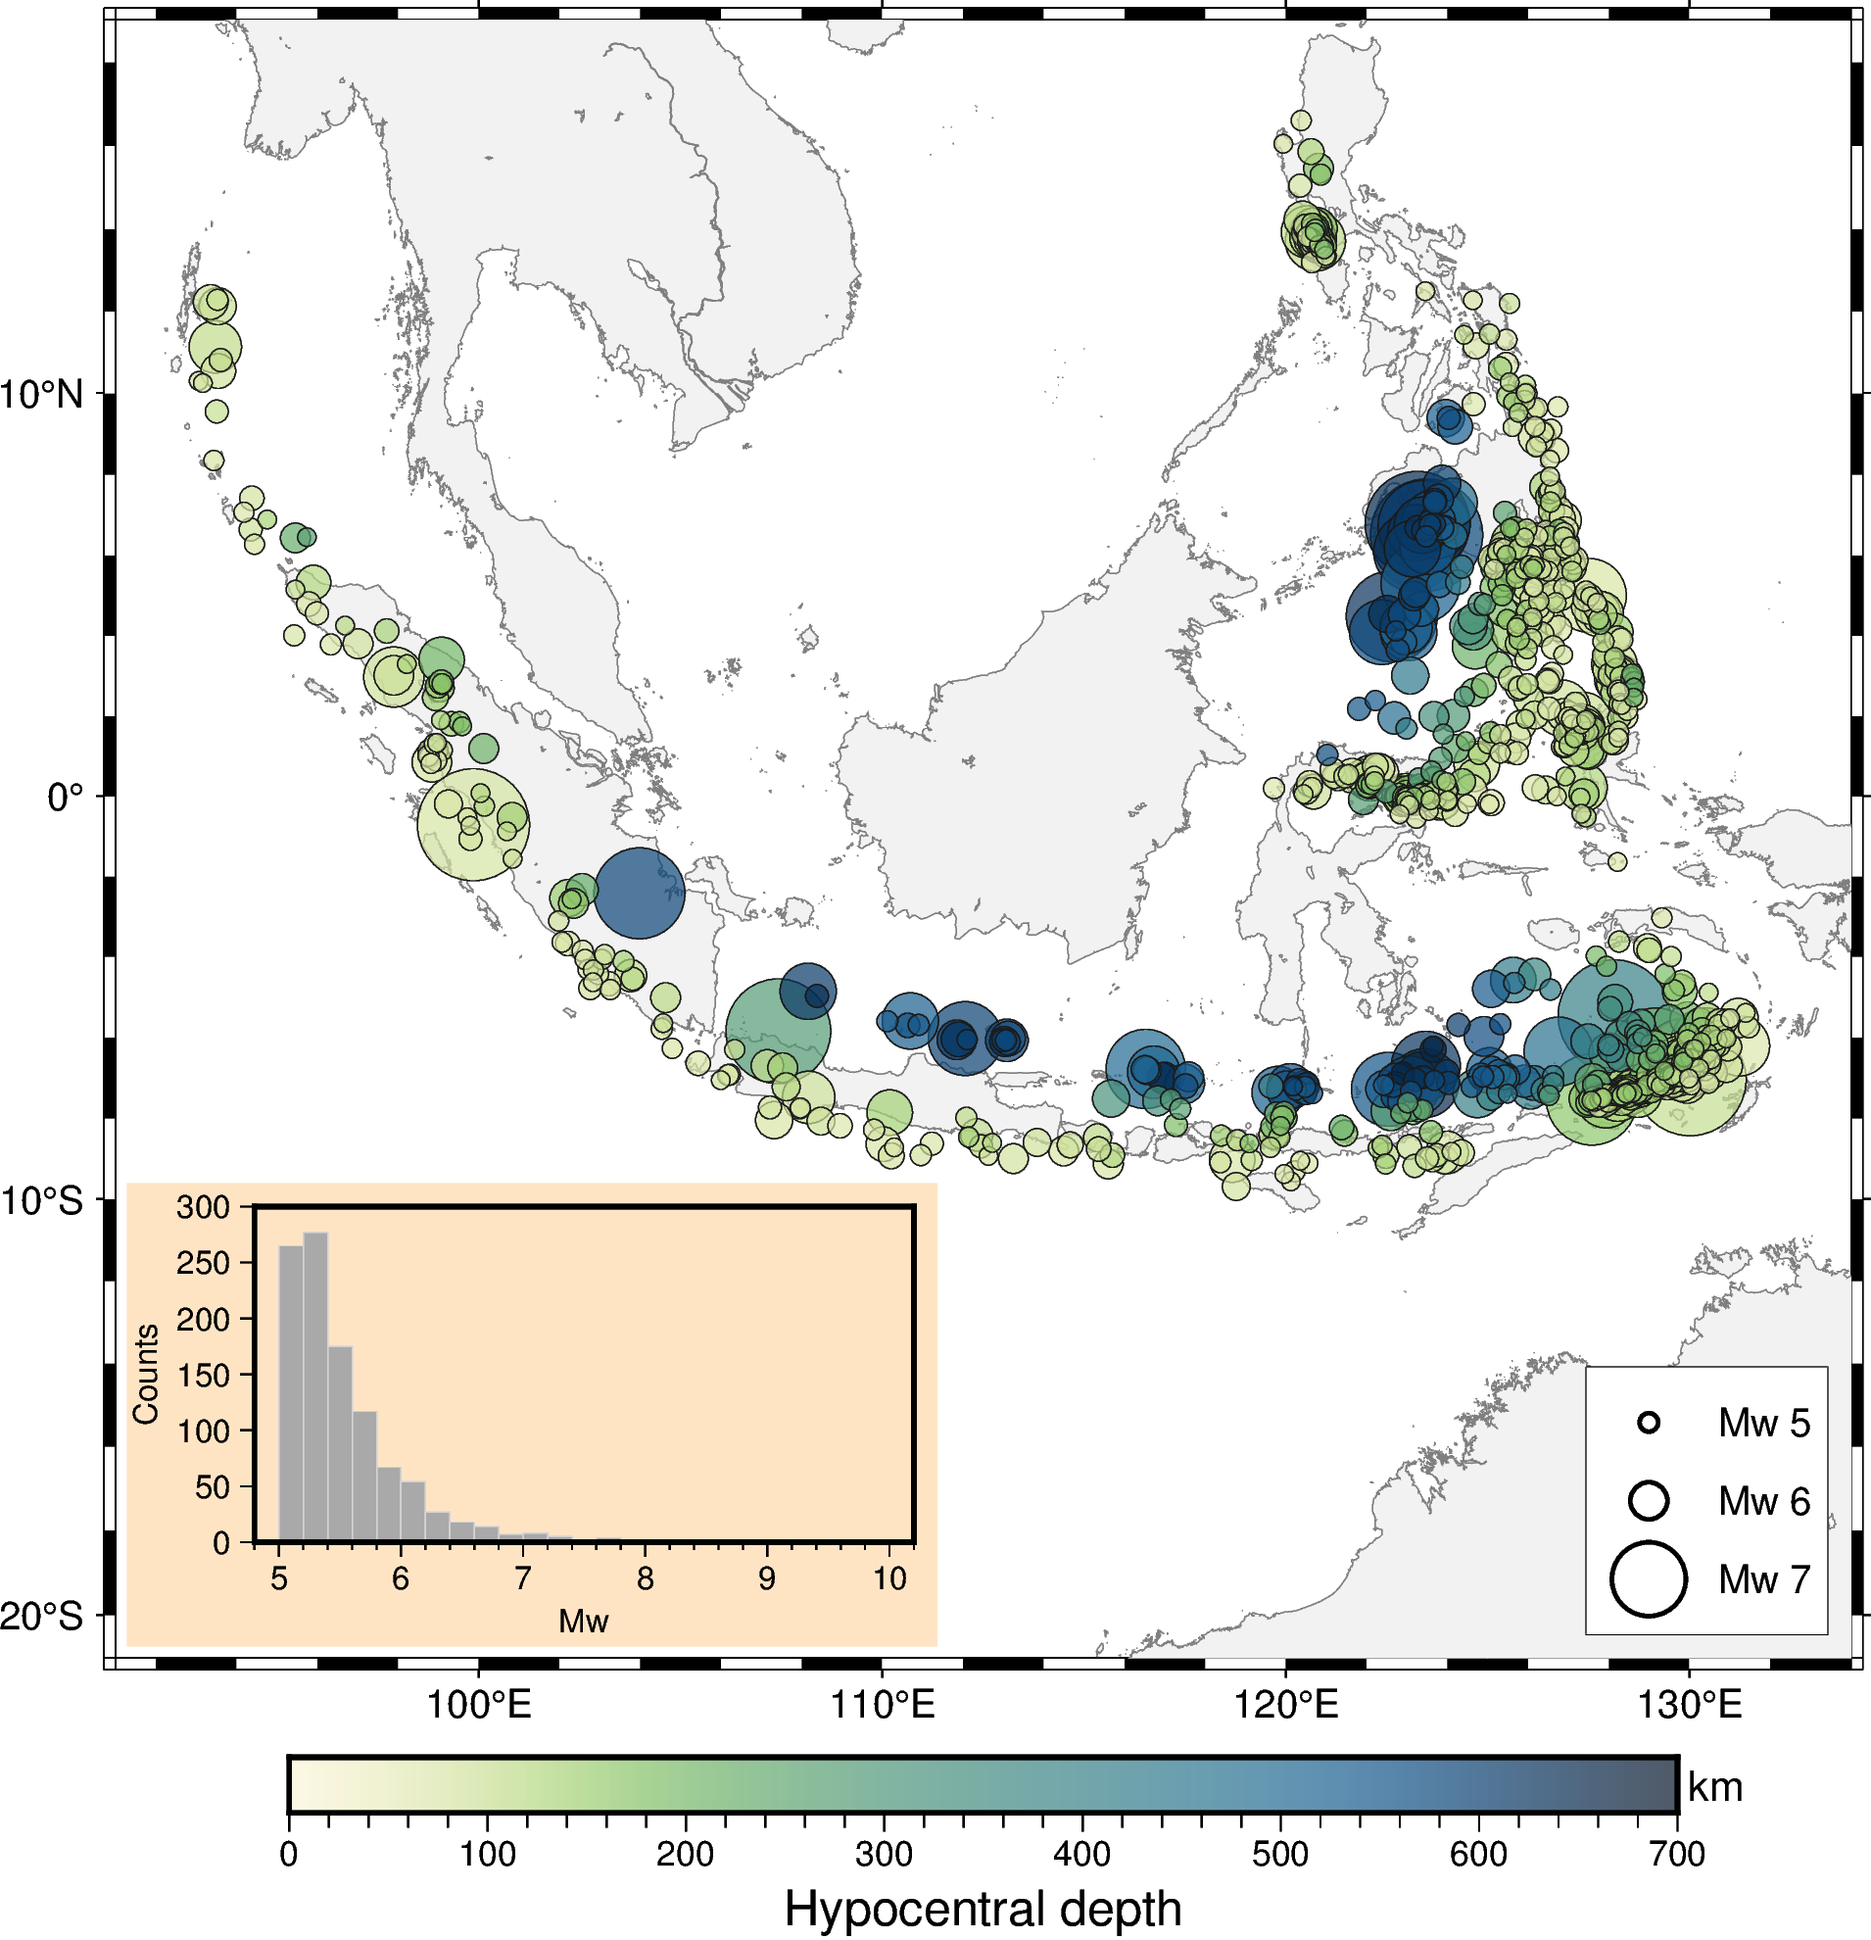
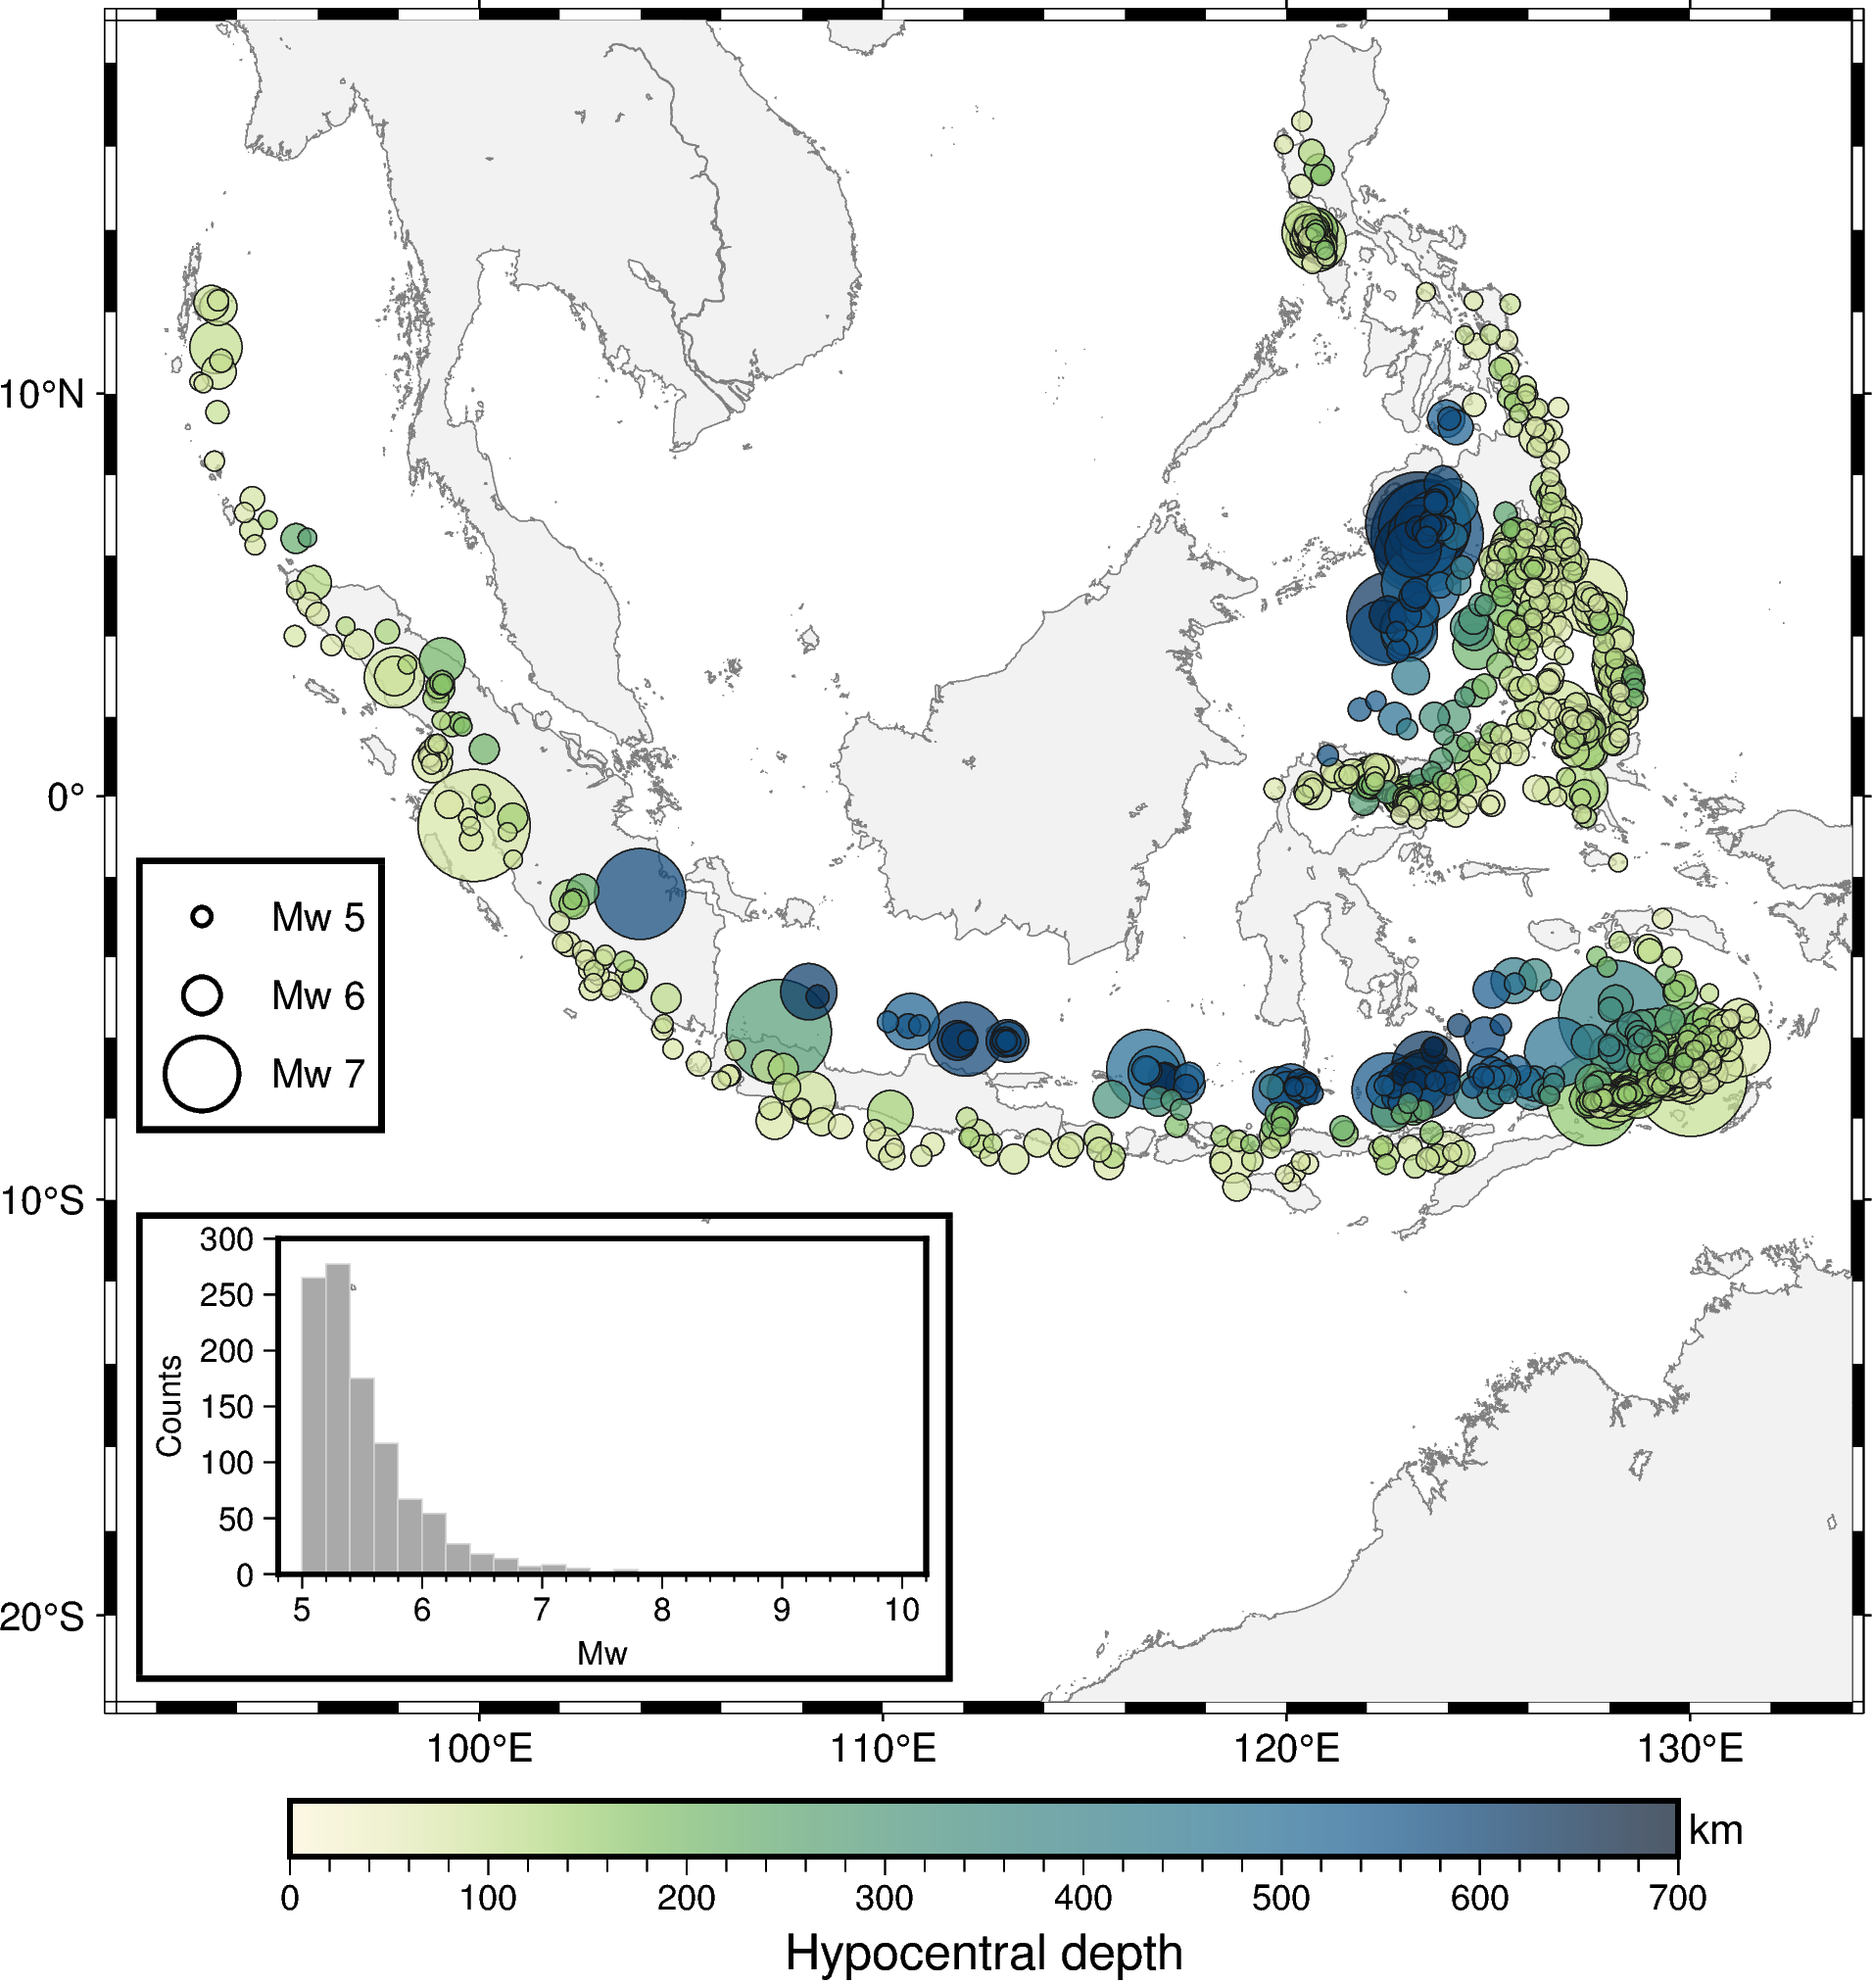
No fill color for histogram | Move size legend to TM | Use box=True

diff --git a/Fig4_PyGMT_pandas.py b/Fig4_PyGMT_pandas.py
@@ -3,7 +3,6 @@ import io
 import pygmt
 import pandas as pd
 import requests
-from pygmt.params import Box
 
 url = "https://earthquake.usgs.gov/fdsnws/event/1/query"
 params = {
@@ -13,7 +12,7 @@ params = {
     "mindepth": 70,
     "minlongitude": 91,
     "maxlongitude": 134,
-    "minlatitude": -21,
+    "minlatitude": -22,
     "maxlatitude": 19,
     "minmagnitude": 5,
     "orderby": "magnitude",
@@ -23,7 +22,7 @@ df_eqs = pd.read_csv(io.StringIO(r.text))
 df_eqs = df_eqs[df_eqs["magType"] != "mb"]  # Focus on moment magnitudes
 
 fig = pygmt.Figure()
-fig.basemap(region=[91, 134, -21, 19], projection="M15c", frame=True)
+fig.basemap(region=[91, 134, -22, 19], projection="M15c", frame=True)
 fig.coast(land="gray95", shorelines="gray50")
 
 # Plot epicenters with color (hypocentral depth) or size (moment magnitude)
@@ -42,12 +41,10 @@ fig.plot(
 legend = io.StringIO(
     "\n".join(f"S 0.4 c {0.005 * 2**mag:.2f} - 1p 1 Mw {mag}" for mag in [5, 6, 7])
 )
-fig.legend(spec=legend, position="jBR+o0.2c+l2", box=Box(fill="white", pen="0.1p"))
+fig.legend(spec=legend, position="jLM+jTL+o0.2c/0c+l2", box=True)
 
 # Add histogram for moment magnitude distribution
-with fig.inset(
-    position="jBL+w7c/4c+o0.1c", margin=(1.1, 0.2, 0.9, 0.2), box=Box(fill="bisque")
-):
+with fig.inset(position="jBL+w7c/4c+o0.2c", margin=(1.2, 0.2, 0.9, 0.2), box=True):
     with pygmt.config(FONT="8p"):
         fig.histogram(
             region=[4.8, 10.2, 0, 0],
